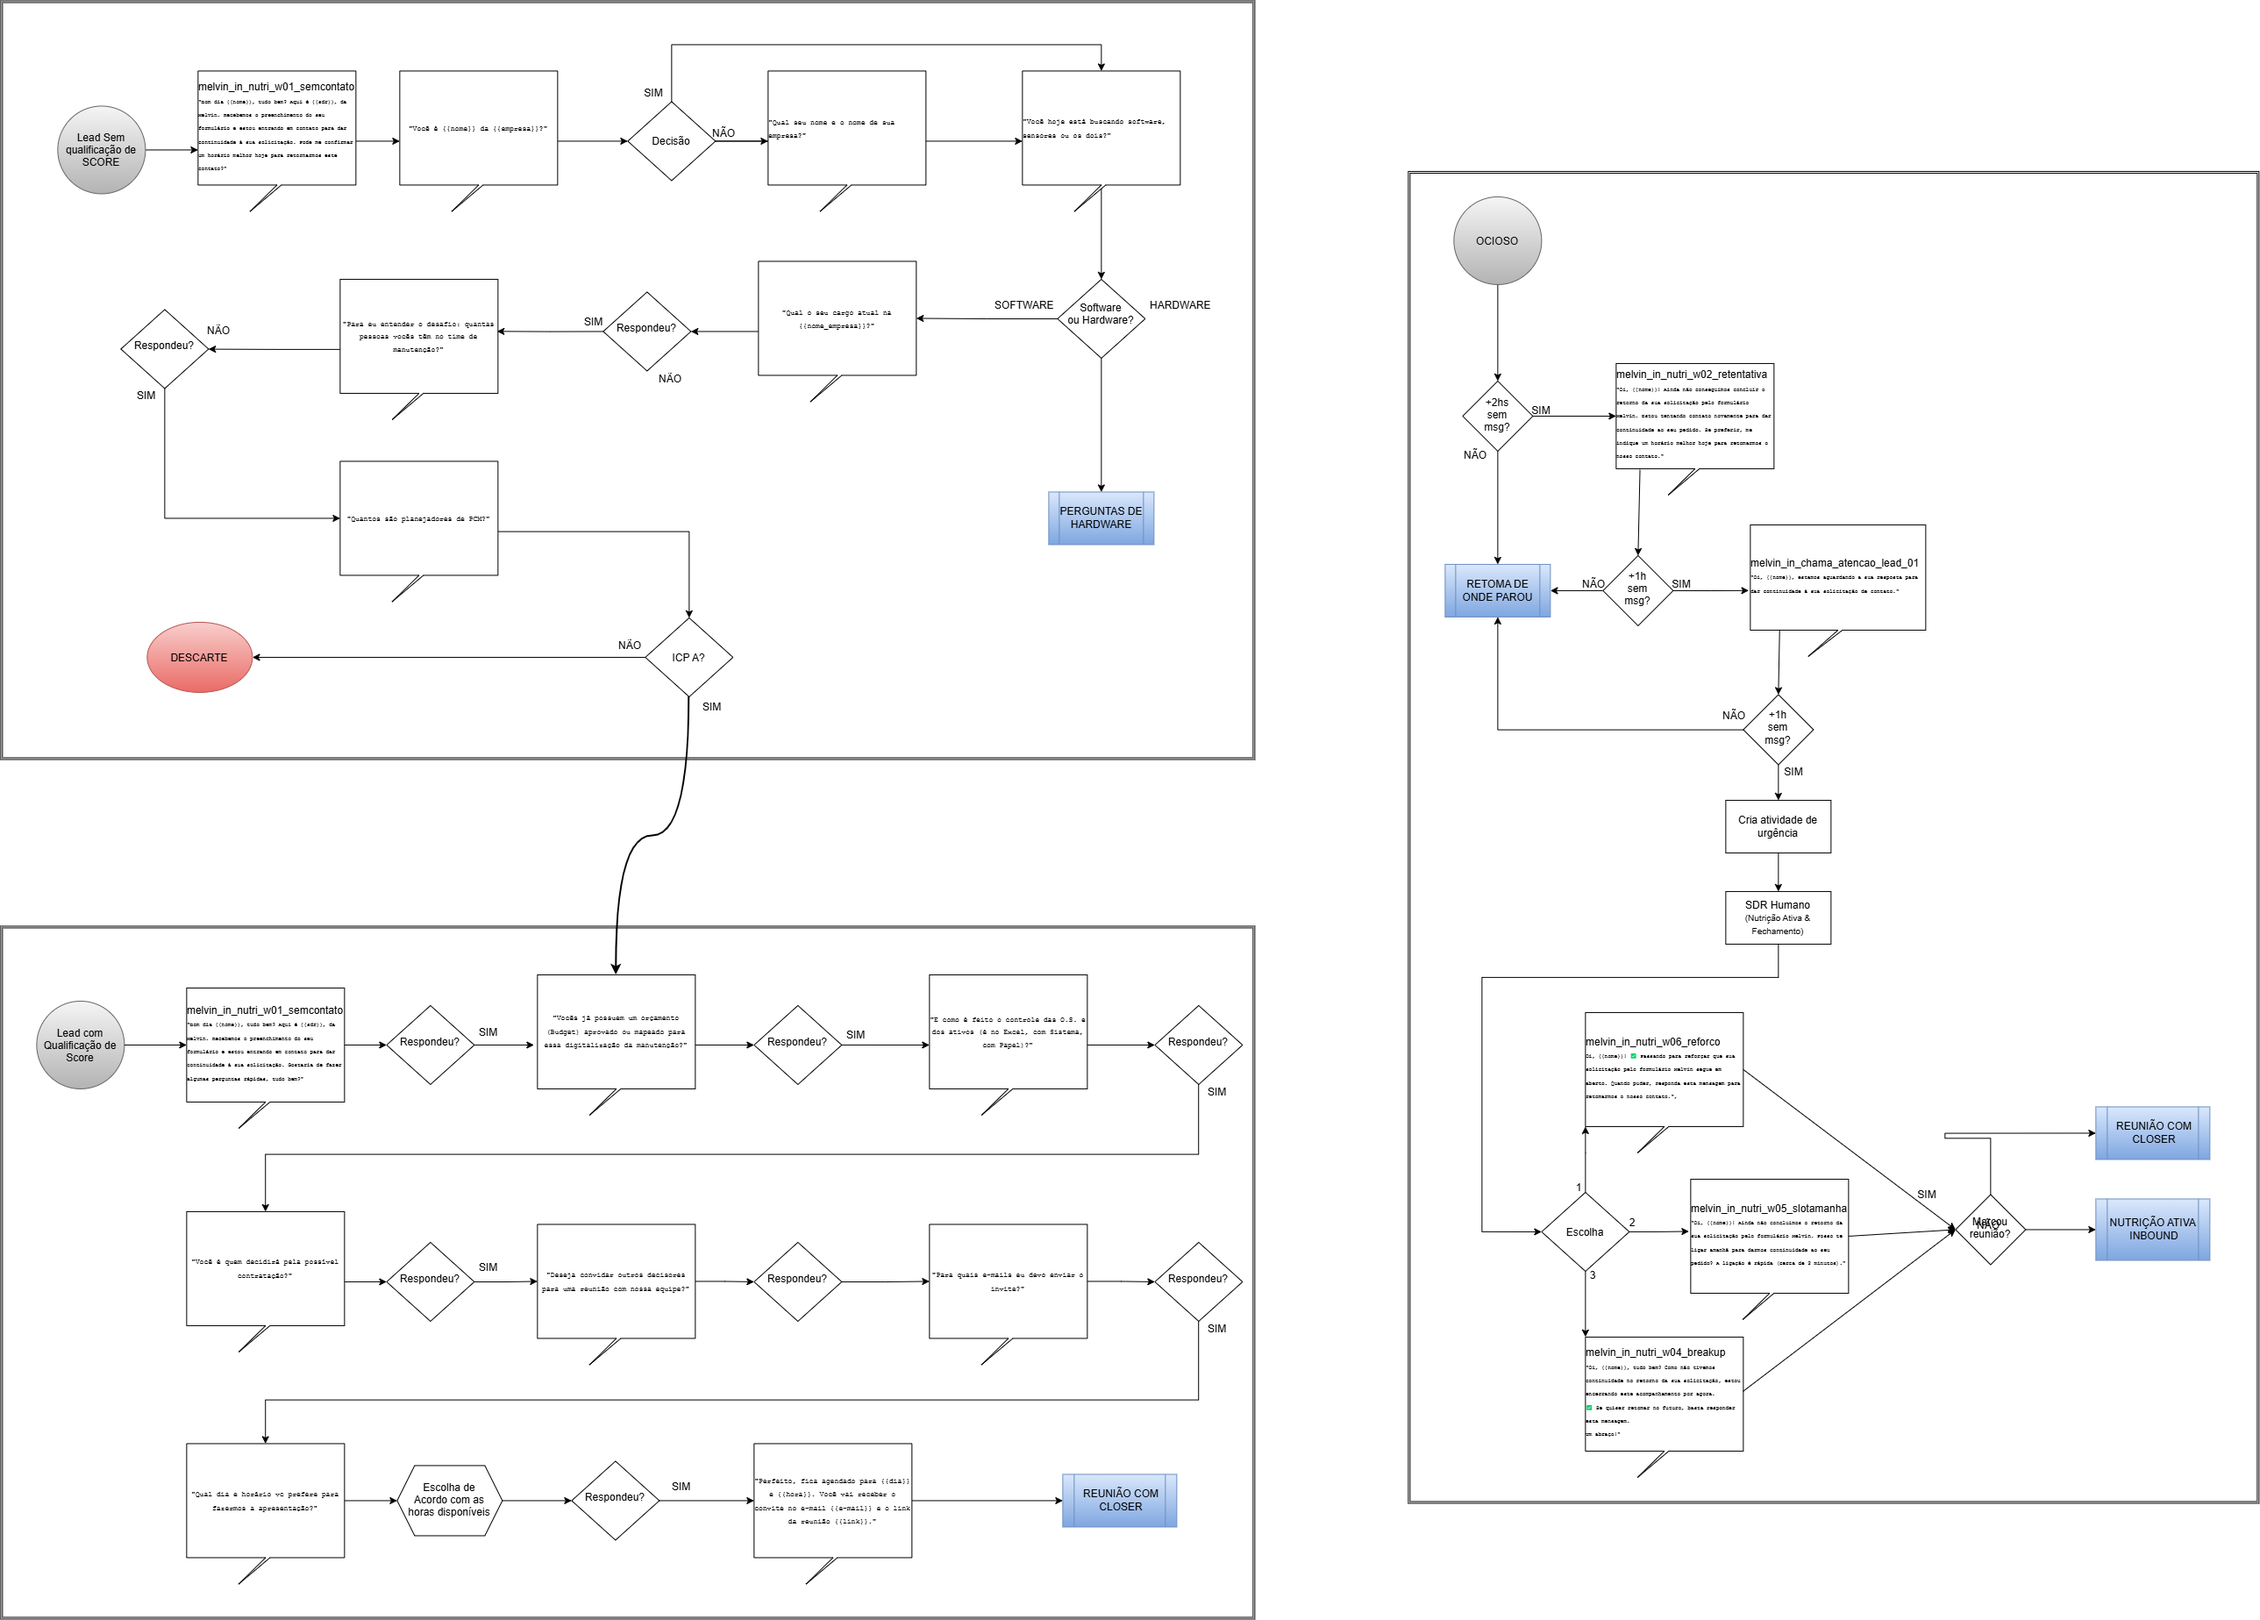
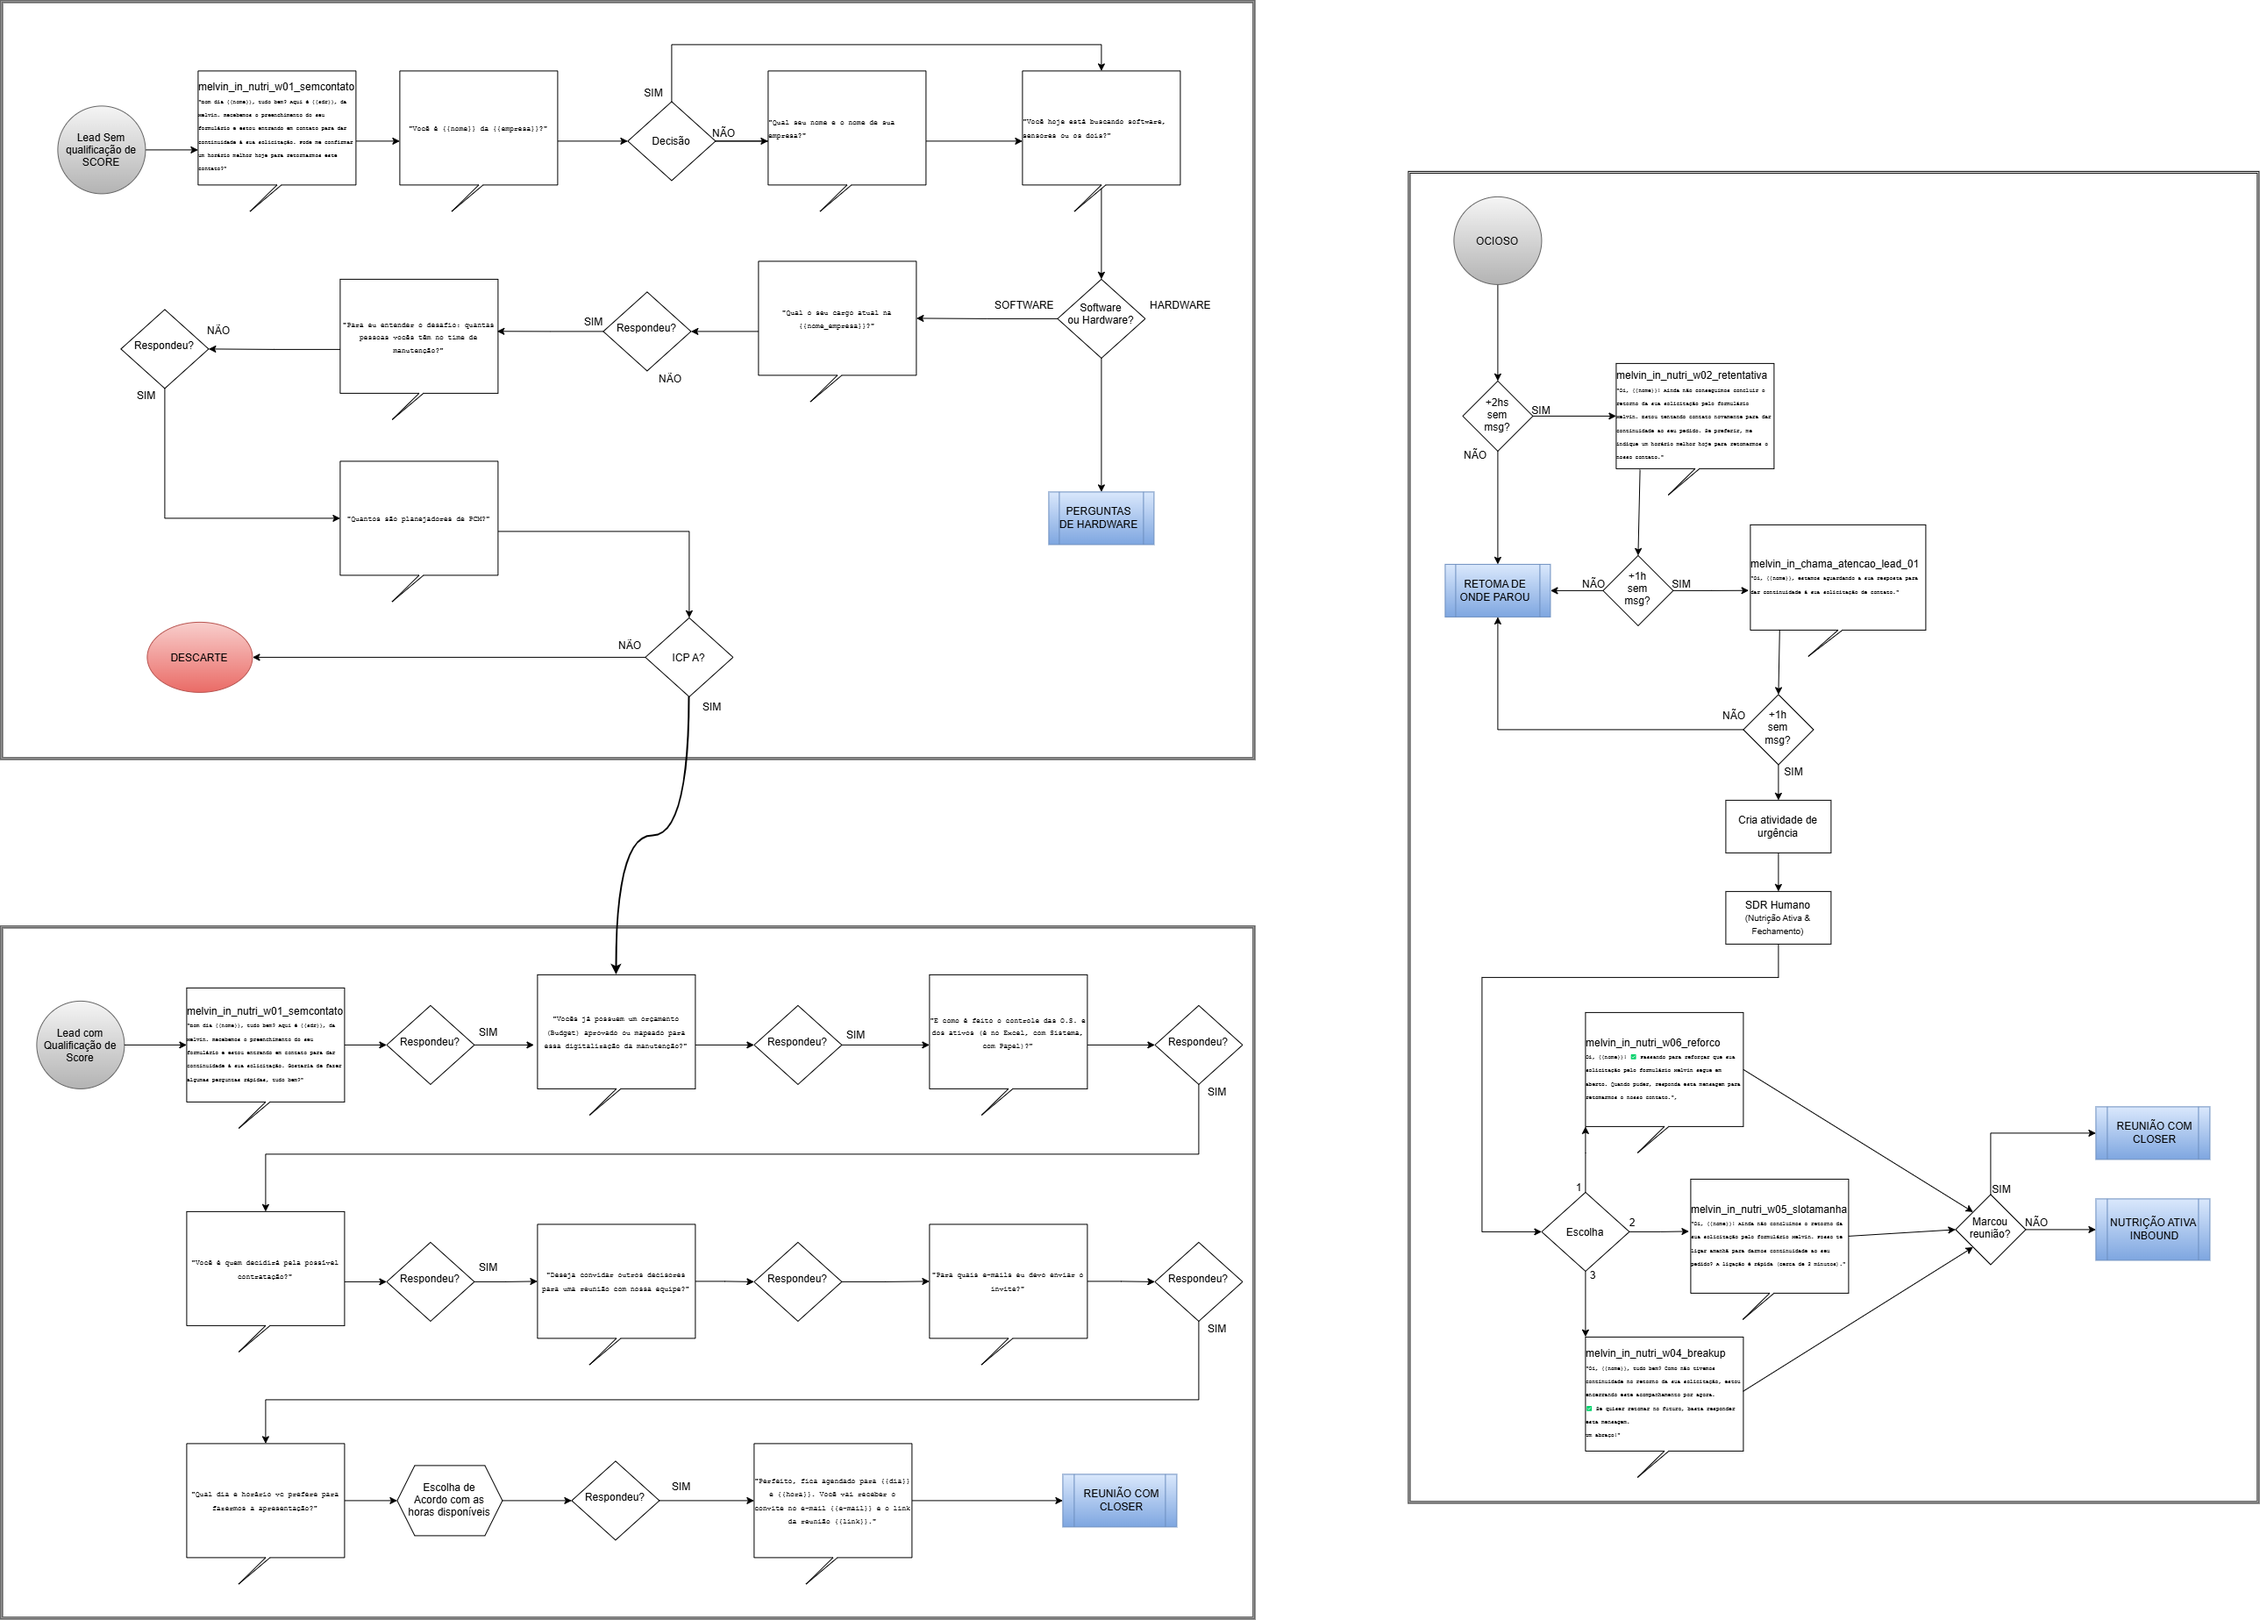
Update the SDR IA full map from the latest diagram.

diff --git a/index.html b/index.html
@@ -6,7 +6,7 @@
     <title>REBUILD 7 | MELVIN</title>
     
 	<link rel="icon" type="image/png" href="logo_simples_removebcg.png">
-  <link rel="stylesheet" href="styles.css?v=matriz-40">
+  <link rel="stylesheet" href="styles.css?v=matriz-41">
 	<link rel="preconnect" href="https://fonts.googleapis.com">
 	<link rel="preconnect" href="https://fonts.gstatic.com" crossorigin>
 	<link href="https://fonts.googleapis.com/css2?family=Manrope:wght@400;500;600;700;800&family=Sora:wght@600;700;800&family=Carlito:ital,wght@0,400;0,700;1,400&family=Libre+Baskerville:wght@400;700&display=swap" rel="stylesheet">
@@ -8389,7 +8389,7 @@ Um abraço!"
                         <img
                             id="fluxoSdrIaImg"
                             class="fluxo-pdf-img"
-                            src="assets/fluxo-sdr-ia-oficial.png"
+                            src="assets/fluxo-sdr-ia-oficial.png?v=matriz-41"
                             alt="Fluxo Comercial Inbound SDR IA — mapa completo"
                             draggable="false"
                             width="2577"
@@ -13792,8 +13792,8 @@ Um abraço!"
         </section>
 
 	</main>
-  <script src="app.js?v=matriz-40"></script>
-  <script src="hire-matrix.js?v=matriz-40"></script>
+  <script src="app.js?v=matriz-41"></script>
+  <script src="hire-matrix.js?v=matriz-41"></script>
 	
 </body>
 </html>

diff --git a/app.js b/app.js
@@ -2792,7 +2792,7 @@ initFluxoPdfUX({
     defaultVer: 'full',
     readyHint: 'Arraste para mover · scroll no mapa · Ctrl + scroll para zoom',
     sources: {
-        full: 'assets/fluxo-sdr-ia-oficial.png'
+        full: 'assets/fluxo-sdr-ia-oficial.png?v=matriz-41'
     },
     hots: { full: [] },
     edges: { full: [] }
